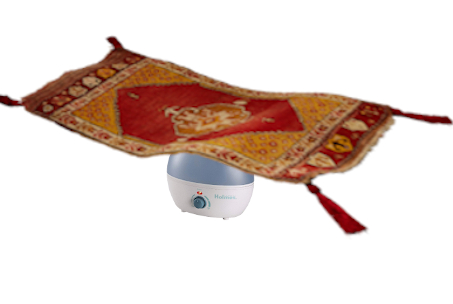
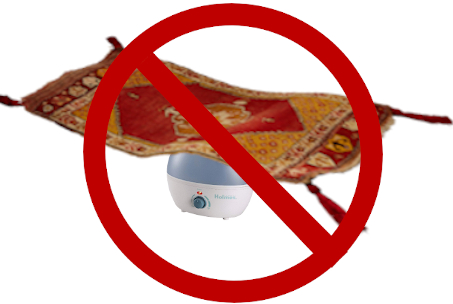
1

Changed region(s): [[0.1854, 0.0, 0.8653, 1.0]]

diff --git a/index.html b/index.html
@@ -29,15 +29,19 @@
     </p>
   </div>
   <div id="habitat">
-    <h2>Habitat</h2>
-    <h3>Countries with Large Brown Bear Populations</h3>
-    <ol>
-      <li>Russia</li>
-      <li>United States</li>
-      <li>Canada</li>
-    </ol>
-    <h3>Countries with Small Brown Bear Populations</h3>
-    <p>Some countries with smaller brown bear populations include Armenia, Belarus, Bulgaria, China, Finland, France, Greece, India, Japan, Nepal, Poland, Romania, Slovenia, Turkmenistan, and Uzbekistan.</p>
+    <h2>Flooring Restrictions</h2>
+    <p>
+      To avoid Fire Hazard, NEVER put the appliance or its cords under Rugs.   
+    </p>
+    <p>
+    <img src="images/Picture4.jpg" style="width:454px;height:300px"/>
+    <p>
+    <p>
+      Always place 
+    </p>
+    <p>
+    <img src="/images/Picture2.jpg" style="width:400px;height: 400px"/>
+    </p>
   </div>
   <div id="media">
     <h2>Media</h2>
